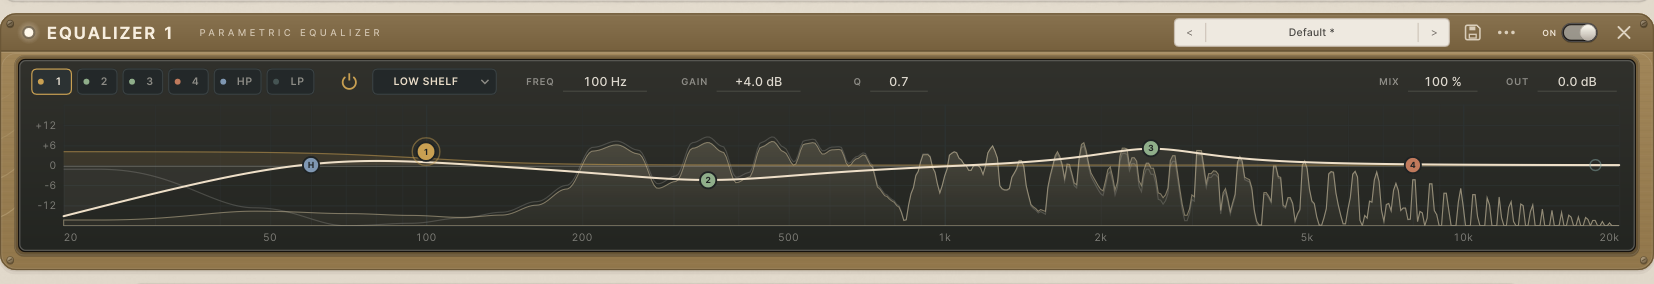
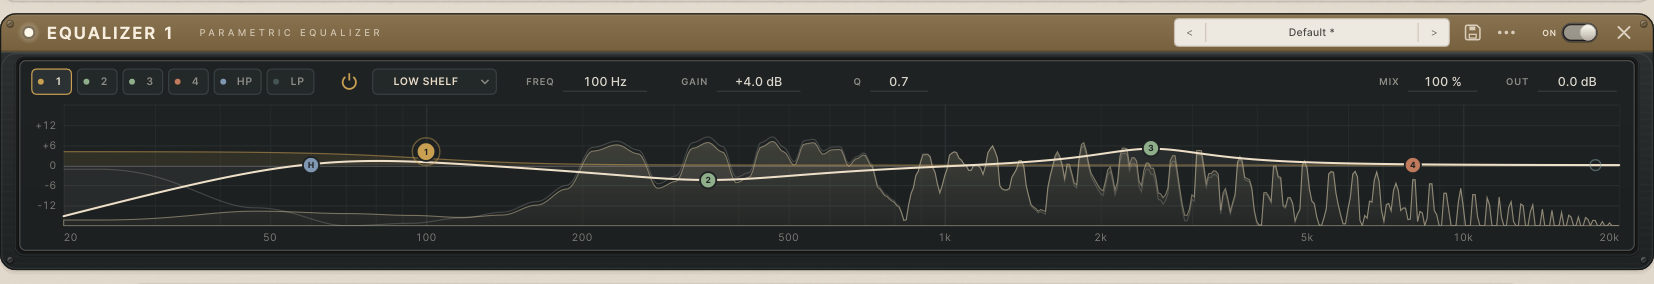
EQUALIZER: a neutral graphite body around the graphic
The brass enamel framed the full-width graphic like a border. The EQ rack's
body is now a neutral graphite one with the glass (no motif); the brass
identity stays in the title rail. Screenshots in docs/screenshots/fx-eq.

Claude-Session: https://claude.ai/code/session_017m2dhdKq56dGUVmEc1dc1g

Changed region(s): [[0.0, 0.169, 1.0, 0.9577], [0.0, 0.0282, 1.0, 0.0845]]

diff --git a/product/Source/FxRack.cpp b/product/Source/FxRack.cpp
@@ -1680,6 +1680,15 @@ namespace
         auto f = faceplateFromIdentity (visualIdentityFor (type));
         if (type == Type::drive)
             f.subtitle = "ANALOG SATURATION / HARMONICS";
+        if (type == Type::eq)
+        {
+            // The graphic EQ: the body a neutral graphite, one with the graph's glass (the card
+            // EQ's well), so the graphic reads edge to edge; the brass stays in the title rail.
+            f.body = juce::Colour (0xff222627);
+            f.glassTop = juce::Colour (0xff1f2324);
+            f.glassBottom = juce::Colour (0xff1c2021);
+            f.motif = nullptr;
+        }
         return f;
     }
 

diff --git a/docs/FX_EFFECTS_LIBRARY.md b/docs/FX_EFFECTS_LIBRARY.md
@@ -107,6 +107,8 @@ what plays. The rail carries the preset browser, a save key beside it, the "..."
     samples each; the audio thread only stores samples (relaxed atomics in a fixed array, no
     allocation, no lock), and the graphic takes a 2048-point Hann FFT on the message thread at
     30 Hz. The display rises at once and falls at 45 dB/s.
+  - **The face:** a neutral graphite body one with the glass (no enamel frame, no motif), so
+    the graphic reads edge to edge; the brass stays in the title rail.
 - FX FILTER: the filter's response; COMPRESSOR: the static curve and live gain reduction,
   MULTIBAND's three bands; SPREAD: voices and live correlation; PHASER: the sweep range and the
   live notches; FLANGER: the comb; FREQ SHIFTER: the mapping or BLUR's smoothing; CONVOLUTION:
